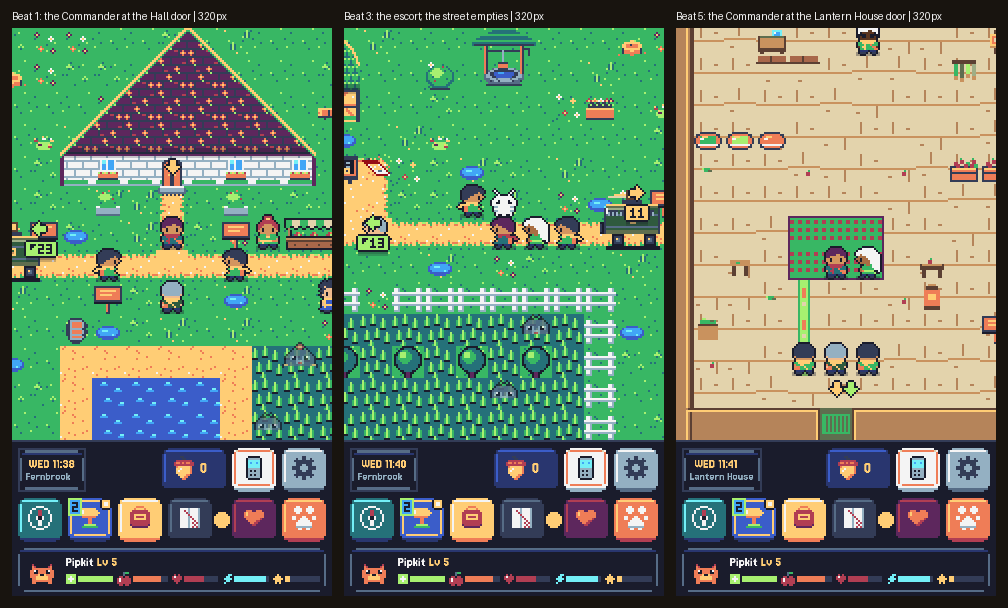
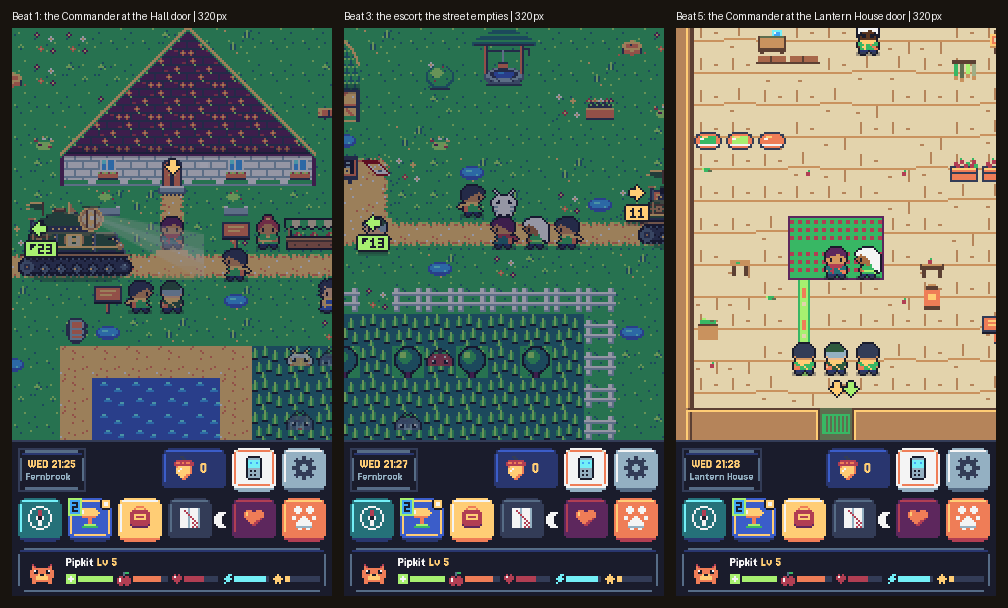
Spec: the Keeper tanks (POST_TRIAL_CRACKDOWN v0.2)
Docs only. New §10a vehicle packet: tanks with no gun (low lacquered
hull on treads, a dome turret carrying a caged searchlight lantern and
a loudhailer bell, Keeper green, iron and brass). Inspiration brief, a
64x40 part-by-part design, frames (6 parked, 4 driving, 3 hatch),
command and escort variants, a searchlight beam, dust, tests, and five
small engine changes. All prototyped by patching the served game.js;
the arrival is recorded in the engine at 390 and 320 (GIFs, zero
console errors). Storyboard and art sheet redone with the tanks.
D1197, D1202 and D1204 reworded.

Claude-Session: https://claude.ai/code/session_01T4Pbfogdr51NfJVgZNeyYN

diff --git a/handoff/specs/POST_TRIAL_CRACKDOWN.md b/handoff/specs/POST_TRIAL_CRACKDOWN.md
@@ -6,13 +6,13 @@ Target path: `handoff/specs/POST_TRIAL_CRACKDOWN.md` (PUBLIC repo; not `docs/`).
 
 | Item | Value |
 |---|---|
-| Status | Draft v0.1, Mon Nov 2, 2026, ~11:45 PM ET |
+| Status | Draft v0.2, Tue Nov 3, 2026, ~12:15 AM ET. v0.2 makes the Keeper tanks a showpiece (§10a): an inspiration brief, a detailed 64x40 design with every frame, two variants, the arrival prototyped in the engine and recorded at 390 and 320, five small engine changes, and tests. v0.1 was Mon Nov 2, ~11:45 PM ET |
 | Ask | Vincent's eight-beat outline (via Morgan), plus his clarification: the Seal-gain ban never blocks the player. The holder already has the Fernbrook Seal. The ban is world news and NPC reactions only, foreshadowing that the Keepers do bad things too |
 | Builds on | Draft PR #261 (`claude/day1-trial1-build-gtkcop`, bc38b01): the `post_trial` and `pick` rows, `sceneTails.seal1`, the `fb_side_pick` trigger, Fen's whereabouts, and the D1171 flip. Main has #249 (Rook's Lantern House walk). `#261 file:N` cites that branch |
 | Canon read | design repo `STORY.md` v0.7.8: §2 Seals and levels, §2a Solvane, §3 Keepers, §3a Government and power, §9 Trial Halls; `specs/KEEPER_RANKS.md`; FACTION_PICK_TIMING Parts C-D and June's drafts (`story/drafts/*2026-10-31.md`). None of them has a crackdown, curfew or police action in Fernbrook: this is new canon |
 | Decisions read | D1142, D1144, D1145, D1150, D1151, D1155, D1170, D1171, D1173, D1174, D1175 (and #261's D1186-D1188) |
 | Skills | walklings-story-craft, walklings-dialog-camera, walklings-dialog-npc-walk, walklings-cutscene, gamedev-level-design, walklings-decision-ids, walklings-wording-check |
-| Storyboard | `handoff/shots/post_trial_crackdown/` (§9): three beats rendered in #261's build at 390 and 320, with draft art injected at runtime (not committed) |
+| Storyboard | `handoff/shots/post_trial_crackdown/` (§9, §10a): three beats rendered in #261's build at 390 and 320; the tank arrival recorded as GIFs; a tank frame sheet. All draft art, injected at runtime (not committed) |
 | Decision ids | D1197-D1209, reserved in this PR (§13) |
 
 ## 2. The quest on one page (walklings-story-craft §1)
@@ -63,19 +63,23 @@ Canon fit (STORY §3a, CANON): "the President and every Keeper commander know po
 - #261's `sceneTails.seal1` placeholder (Fen's "come to the orchard gate" line plus `setFlag story.post_trial_done`) is **replaced**: the tail keeps only a Fen line pointing the holder outside. Story writes it.
 - Camera: the holder arrives at 22,7. Curtain bars on.
 
-### Beat 1. The Watch Coaches roll in (street, auto then talk)
+### Beat 1. The Keeper tanks roll in (street, auto then talk)
+
+This beat **ran in the engine** (§10a.6): #261's build with the §10a engine changes patched in at load, draft art, zero console errors, and every actor on its tile at the end. The tanks are §10a's.
 
 | Step | Who | Move / action | Camera |
 |---|---|---|---|
-| 1a | holder | `walkTo player 21,8`: steps down to the road | follows the holder |
-| 1b | Watch Coach A | `castAt cd_coach_a 1,8 right`, then `walkTo cd_coach_a 17,8` (a prop gliding; prototype, §11 S2) | the coach enters the right of the frame at 390; at 320 the camera stays on the holder and the coach slides in from the left edge |
-| 1c | Watch Coach B | `castAt cd_coach_b 1,8 right`, then `walkTo cd_coach_b 12,8` | |
-| 1d | Commander | `castAt cd_cmdr 17,9 right`, then `walkTo cd_cmdr 22,9`, facing up | the speaker nudge (D171) keeps him clear of the box |
-| 1e | officers | `walkAll` (new, §11): `cd_off_a` 17,7 to 20,8; `cd_off_b` 18,9 to 24,8 | |
+| 1a | | `curtain on`; `wait 300` | the holder stays at the Hall door (22,7), facing down |
+| 1b | the light first | `castAt cd_beam 4,8` (the searchlight beam, a cast prop) and `castAt cd_tank_a 3,8` (the command tank), then `walkTo cd_beam 20,8 {with: cd_tank_a, ms: 300}`: the beam leads and the tank follows one tile behind | at 320 and 390 the beam crosses the left edge first, then the tank. It stops with the pool of light on the holder |
+| 1c | | `castAt cd_dust 16,8` (dust behind the treads); `wait 500` | |
+| 1d | the escort tank | `castAt cd_tank_b 3,8`, then `walkTo cd_tank_b 13,8 {ms: 260}` | it parks off screen behind the first at 320 |
+| 1e | the hatch | `prop cd_tank_a keeper_tank_cmd_r_hatch1`, `wait 220`, `hatch2`, `wait 220`, `hatch3`, `wait 700`, then back to `keeper_tank_cmd_r` | the Commander rises out of the turret |
+| 1f | Commander, officers | `castAt cd_cmdr 20,9`, `cd_off_a 15,9`, `cd_off_b 16,7`, then `walkAll [[cd_cmdr,22,9],[cd_off_a,21,9],[cd_off_b,24,8]]` | the speaker nudge (D171) keeps him clear of the box (seen at 320) |
+| 1g | holder | after the Commander's first line, `walkTo player 21,8` (steps down to the road to face him, freeing 22,7 for Fen) | |
 
 | Speaker | Line (PLACEHOLDER) |
 |---|---|
-| (narration) | Iron wheels grind on the road. Two Watch Coaches roll into Fernbrook, lanterns blazing. |
+| (narration) | A white beam slides up the road. Then the ground starts to hum. |
 | Commander | By order of the Keepers, this square is closed. Everyone home. Now. |
 | Commander | Glimmerwell staff will pack up and leave Fernbrook tonight. |
 | Associate Juniper | We have a permit! ...Fine. Fine! Glimmerwell is relocating. |
@@ -104,7 +108,7 @@ The threat is words only. The Seal is never removed (`S.seals` and `story.seal1`
 | 3a | townsfolk and Juniper | `walkAll`: Juniper 14,6 to 30,8 (east, toward the rubble); Wynne 25,7 to 26,5; Odile 27,9 to 28,11; Juniper's stand `fb_lantern_stand` swaps to empty (`prop`) | when `story.crackdown` is set at 3e, their `when`s hide them. They are hidden, never `drop`ped: dropping a real map NPC removes it for the session |
 | 3b | Constable Rue | stays at 4,9 | one line as the holder passes |
 | 3c | escort | `walkAll`: `cd_cmdr` to 6,8; `cd_off_a` to 7,7; `cd_off_b` to 9,8; then `walkTo player 5,6 {with: cd_fen}` | the camera follows the holder west along row 8; the storyboard's Beat 3 frame is 13,8 |
-| 3d | Watch Coach A | `walkTo cd_coach_a 10,8`, trailing (optional, cut if the glide prototype fails) | |
+| 3d | the tanks | stay parked on the road, lanterns sweeping (idle frames); dropped at the warp | |
 | 3e | | `setFlag story.crackdown`; `curtain off`; `warp fb_lantern_in 5,14` | |
 
 | Speaker | Line (PLACEHOLDER) |
@@ -149,7 +153,7 @@ Fen's challenge is a line, not a battle: no forced battle in a cutscene (walklin
 | Master Fen | You'd arrest a Hall Master in her own town? Listen to yourself. |
 | Commander | A Seal says a holder can help run things here. Fernbrook doesn't need the help. |
 
-"Immediately" becomes "at first light". The coaches don't run at night, and it gives the pick its dawn (D1142, FPT Part D). Default D1203; Vincent can make it "now" (then §6 option B).
+"Immediately" becomes "at first light". The Lantern Coach doesn't run at night, and it gives the pick its dawn (D1142, FPT Part D). Default D1203; Vincent can make it "now" (then §6 option B).
 
 ### Beat 6. "The Seal only matters if you comply" (Lantern House)
 
@@ -211,7 +215,7 @@ The curfew is **a read, not a flag**: `story.crackdown & !story.side_pick_done`.
 | `fen_dawn` (new Fen body) | fernbrook 10,9 (the orchard) | `["story.post_trial_done", "!story.side_pick_done", "!story.orchard_cleared"]` | points the holder at the gate; the built pick follows |
 | `juniper_east` (new body of Juniper) | fernbrook 30,8, beside the rubble | `["story.crackdown", "!story.side_pick_done"]` | her pitch (§6) |
 | Constable Rue | 4,9 | unchanged | a curfew-keyed line |
-| Watch Coaches | | not on the map at dawn | |
+| Keeper tanks | | not on the map at dawn (their casts end with the street scene) | |
 
 The new bodies don't block the path: the road (row 8) stays open from the Lantern House to the gate (9,10) and to 30,8. They are checked the same way as the Hall spec's path model (T5).
 
@@ -296,7 +300,7 @@ Two NPC lines in other towns after the pick (PLACEHOLDER, Story): a holder in Co
 |---|---|---|
 | Fen defies Keeper police but must stay a Keeper (D1170) | STORY §3a: Wardens outrank Commanders and aren't in the cover-up | Fen appeals **up** the ladder ("I'm writing to the Warden"), never against the Keepers as a whole. Her line: "A Commander doesn't outrank the lantern's law." |
 | The Keepers look heavy-handed right before the pick (balance) | the pick needs two fair options | Ledger below. Default: Amos owns it, the officers are uneasy, Rue is kind, Fen defies from inside. Glimmerwell runs and leaves locals, and Juniper spins it. Telemetry later: the pick ratio before and after (no new code; QA notes it) |
-| "Tanks" in a cozy pet game | STORY transport: Lantern Coach, lantern airships, Glimmerwell carts. No guns anywhere in canon | **Watch Coaches** (D1202): armoured Keeper coaches in green lacquer and iron, with a lantern searchlight turret. No barrel, no gun. Optional sky beat: a patrol skiff from Sky-Dock Command (not in this spec's art) |
+| "Tanks" in a cozy pet game | STORY transport: Lantern Coach, lantern airships, Glimmerwell carts. No guns anywhere in canon | **They are tanks, with no gun** (D1202; §10a): a low hull on treads with a dominant turret, but the turret carries a great caged searchlight lantern and a loudhailer bell. It threatens by watching and ordering. Green lacquer, iron and brass: unmistakably Keeper, never Glimmerwell's gloss and red |
 | Curfew and ban vs town steering (D1173, red, open) | steering is "which side a Trial steered a town toward" | The curfew is scene-scoped (crackdown to pick) and the ban is world news; neither writes town state. D1173 stays untouched. If Vincent picks Seal option A (D1199), Seals become the steering key, and this beat is the first sign of it |
 | Tone and age | STORY.md:137-144 says the audience is 16-28 with "no blood on screen, ever"; walklings-story-craft says all-ages ("no peril without hope") | Pitched for both: no weapon drawn, no one taken away on screen, no Walkling harmed. "Arrested" and "detained" appear as words only. Hope arrives in the same scene (Fen's appeal, Amos's beds). The audience conflict is flagged to Morgan (§12, row 11) |
 | The Commander is in on the cover-up (canon) | STORY §3a | The line never says it. He just doesn't value Seals: a seed only |
@@ -317,9 +321,10 @@ Two NPC lines in other towns after the pick (PLACEHOLDER, Story): a holder in Co
 ## 9. Storyboard (code-drawn, 390 and 320)
 
 In `handoff/shots/post_trial_crackdown/`:
-- `storyboard-390.png`, `storyboard-320.png`: Beat 1 (the Commander at the Hall door, the coaches on the road), Beat 3 (the escort; the street empties; Juniper at the east end), Beat 5 (the Commander and officers across the Lantern House door).
+- `storyboard-390.png`, `storyboard-320.png`: Beat 1 (the Commander at the Hall door, the tanks on the road), Beat 3 (the escort; the street empties; Juniper at the east end), Beat 5 (the Commander and officers across the Lantern House door).
 - Full screens: `beat{1,3,5}-*-{390,320}.png`.
-- `draft_art_sheet.png`: the Watch Coach, the wire set off and on, the curfew notice and the lantern cordon at 5x.
+- `draft_art_sheet.png`: both tanks, the wire set off and on, the curfew notice and the lantern cordon at 4x.
+- **The tanks** (§10a): `tank_sheet.png` (every frame at 4x), `tanks-arrival-390.gif` and `tanks-arrival-320.gif` (the arrival, recorded in the engine), and `tanks-storyboard-{390,320}.png` (four stills: the light, parked, the hatch, the Commander's line).
 
 How they were made:
 - #261's build, with the cast and props added to `MAPDATA` at load, plus draft art and a draft Commander look.
@@ -328,7 +333,7 @@ How they were made:
 Findings from the storyboard (already folded in above):
 1. **The Commander needs a silhouette.** With the officer look plus grey hair he reads as one more officer. A long coat and a peaked cap are needed (§10).
 2. **The wire set was off screen at 320** from the rug, so in Beat 7 the holder walks up to it.
-3. **The Watch Coach at 32x32** reads as a heavy coach, not a cart. A wider vehicle would read better, but the draw code is only known to handle 32 px wide (cull margin, #261 `game.js:8219`; UNVERIFIED wider). Default 32x32; a two-cell coach (front and back props) is an option.
+3. **The vehicle.** v0.1's 32x32 coach read as a cart. The tank is now 64x40 (§10a). The engine draws it, but its fixed cull margin made wide art pop at the screen edges, so §10a.5 adds a width-aware cull, verified in the arrival recording.
 
 ## 10. Art (Pia) and story (June)
 
@@ -336,7 +341,7 @@ Findings from the storyboard (already folded in above):
 
 | Asset | New / existing | Size | Draft (storyboard) | Notes |
 |---|---|---|---|---|
-| `watch_coach` | **new** | 32x32 prop (`drawArt`, bottom-centred) | green lacquer `J` body with `E` shade; `m`/`d` iron bands; barred `h` windows; a painted gold crest; brass lantern turret (`y`, `F` cage) with a `C`/`y` beam; iron wheels with brass hubs; a front plough plate | needs a facing-right copy (or a flip) and, optionally, 2 wheel frames. No gun shapes |
+| Keeper tanks (`keeper_tank*`, `tank_beam_*`, `tank_dust`) | **new** | 64x40, plus a 96x40 beam | see §10a | the showpiece of the quest |
 | Commander look | **new** (look entry) | keeper look | coat `J`, accent `y`, hair `h` (draft) | needs a silhouette: long coat, peaked cap (the look kit has `cap`; a peaked one may be new), gold shoulder. Inside the Keeper set (rule 11) |
 | Officer look | existing `officer` | | | optional: a cap, to read as on duty |
 | `wire_set`, `wire_set_on` | **new** | 16x16 | an oak cabinet with a brass grille; teal screen `t`/`s`, `w` text lines when on | a Keeper object: the wires are Keeper-owned (STORY §3) |
@@ -353,18 +358,139 @@ June (Story):
 - three Block News stories and two NPC reactions;
 - sign-off on the balance ledger.
 
+## 10a. The Keeper tanks (vehicle packet)
+
+Vincent wants a lot of attention and detail on the tanks. They are the image of this quest: the first time the Keepers' law arrives as a machine. This section is the packet for them: inspiration, design, every frame, choreography, engine needs, tests. Draft art and an engine prototype back every claim. Nothing here ships until Pia redraws it and Vincent says yes.
+
+### 10a.1 Inspiration (run with a sub-agent, Mon Nov 2, 2026; reference only)
+
+- **Pillars**
+  - **Silhouette:** low, wide, heavy. A long tread loop, a flat riveted hull and a squat dome turret set back, wider than a house door.
+  - **Materials:** the Keeper craft made institutional. Dark green lacquer held down by iron straps, gold rivet rows, oak trim and brass lamp rings. Matte and hand-painted, never glossy.
+  - **No gun, still a threat:** it threatens by **watching and ordering**. A caged eye that can light anyone, a bell that announces rules, a mass that blocks a street, and a slow, unstoppable approach.
+  - **Stays Keeper:** warm palette, a hand-painted crest, lantern culture (kin to High Charity's airships), pennants. Glimmerwell's black-and-red gloss and hard wedges are kept out.
+- **References (situations, not designs):**
+  - a steam traction engine (brass bands, a short rear stack, slow ceremonial weight);
+  - a riveted early armoured car (plate seams, slit visors, a domed turret);
+  - a lighthouse lamp (stepped glass rings in a brass cage);
+  - a lacquered steam fire pump (gold-leaf lining; a civic, proud vehicle);
+  - a river monitor (low hull, round turret);
+  - a barred prison van ("the law owns this");
+  - a searchlight on a yoke;
+  - a ceremonial coach (a crest on the door panel).
+- **Pitfalls named, and what the design does:**
+  - **Too toy-like.** It stays low, wide and dark, with small wheels.
+  - **Reads as a train, bus or tractor.** No window row; a short rear stack; a full tread loop with sprocket teeth; the turret dominates the top line.
+  - **The lamp reads as a cannon.** The lantern is a drum wider than it is deep, shown as a glowing ringed disc with cage bars across it; the loudhailer is a flared bell angled up.
+
+### 10a.2 The design (draft v2; `tank_sheet.png`)
+
+**Size:** 64x40 px, bottom-centred on one cell (`drawArt`). On the map it spans about 4 tiles wide and 2.5 tall: bigger than any NPC and as wide as the Lantern House door is far from its well. Side view; drawn facing left and mirrored for right.
+
+| Part | Pixels (draft) | Notes for Pia |
+|---|---|---|
+| Ground shadow | the engine's own shadow colour, a 54 px tapering ellipse | |
+| Tread loop | `k` loop with `d` belt; links alternate `m`/`k` every 3 px on the top and bottom runs; the top run sags 1 px between wheels | the links scroll 1 px a frame when driving |
+| Running gear | front idler (plain iron, `d`/`m`), rear drive sprocket (`m`, 8 tooth notches), five road wheels (`k` rim, `m` face, `y` brass hub bolt) | hub bolts rotate when driving |
+| Oak fender | `G` rail with an `A` lit front run and an `F` edge, casting a `k` shadow onto the top run | separates the hull from the treads |
+| Hull | low trapezoid, front sloped 5 px, rear 3 px; deep green lacquer `J`; iron glacis `d` with a lit `m` edge and gold `y` rivets every 3 rows | dark: green close to black |
+| Panels | three lacquer panels split by two iron straps (`d`/`m`) with `y` rivets every 3 px; `E` bevel on top, `d` shade below; the deck edge lit `D` at the front-left | one light, top-left |
+| Front | vision slit (`k`, with 1 px `y`: someone inside); a front running lantern (`A` ring, `w`/`y`) | for the night arrival |
+| Trim line | command: gold `y` along the hull; escort: iron `m` | |
+| Side plate | command: crest (gold rim, cream field, painted lantern, `A` laurel band); escort: cream order plate with 3 ticks, plus mud dither `F` on the lower hull | |
+| Oak rack | three staves (`F`/`G`), brass end posts, a rope coil | |
+| Rear stack | `d`/`m`, with an `A`/`y` brass cap ring | steam rises from here |
+| Turret | a broad squat dome set back (25 px wide), `J` with `E`/`D` lit top-left and `k` shade right, a rivet ring on an iron base | dominates the top line |
+| Hatch | `F`/`G` lid with a `y` hinge; open: lid upright with the crest painted on its underside | the Commander rises from here |
+| **Great lantern** | on the turret front, on an iron yoke: `A` brass ring (command: a second `y` ring), `C` pale ring, `y` glow, a 2x2 `w` hot core, two `F` cage bars across the face, a `J` hood | **the read at 1x:** "a glowing ringed disc on a dark tank lump". Off: a `G`/`C` lens |
+| Loudhailer | a flared bell angled up beside the lantern (command: brass `A`/`y`; escort: iron `m`/`h`) | a bell, never a tube |
+| Pennant | an oak pole at the turret's rear; command: a long double-tailed `J` pennant with `y` border and tails; escort: a short `J` flag | |
+| Searchlight beam | a separate 96x40 sprite: a cone from the lens forward and down, cream `rgba(244,236,214,.32)` with a brighter core, and a warm pool where it lands | the only translucent art; cast one tile ahead of the tank so its narrow end meets the lens |
+| Dust | 3 frames of dithered `A` puffs at 55% alpha | behind the treads when a tank stops |
+
+**PAL keys used:** `J E D k d m h w y A G F C` and the engine's shadow rgba. **No `V`, `N` or `Q`:** nothing Glimmerwell.
+
+### 10a.3 Frames
+
+| Sprite key | Frames | Timing | What moves |
+|---|---|---|---|
+| `keeper_tank_cmd_{l,r}`, `keeper_tank_{l,r}` (parked) | 6 | 350 ms | the lantern yaws left, centre, right (held 700 ms each); the pennant flutters every frame; one steam puff on the last frame |
+| `..._move` (driving) | 4 | 150 ms | links scroll, hub bolts turn, the sprocket teeth step, the hull bobs 1 px on frame 3 and the turret lags a frame behind it, steam puffs grow and drift up and back |
+| `keeper_tank_cmd_{l,r}_hatch1..3` | 3 stills | swapped by `prop` steps, 220 ms apart | the lid flips up; cap and face appear; shoulders and a hand on the rim |
+| `keeper_tank_cmd_off_r`, `keeper_tank_off_r` | 1 | | lantern dark, for the dawn |
+| `tank_beam_{l,r}` | 1 | | static. A sweep is optional (3 positions) |
+| `tank_dust` | 3 | 160 ms | |
+
+**Reduced motion** (`artFrame`): every animated sprite holds frame 0. The tanks still arrive (SKIP and reduced motion snap walks, so they appear parked). No flashing in any mode.
+
+### 10a.4 The two tanks
+
+| | Command tank (`cd_tank_a`) | Escort tank (`cd_tank_b`) |
+|---|---|---|
+| Who rides it | the Commander (emerges from the hatch) | officers |
+| Side plate | crest with laurel band | order plate, mud |
+| Trim | gold line | iron line |
+| Lantern | bigger (second gold ring) | standard |
+| Loudhailer | brass | iron |
+| Pennant | long, double-tailed, gold | short |
+
+One base sprite; the variant is a palette swap plus a few overlay pixels.
+
+### 10a.5 Engine needs (all prototyped in the arrival recording)
+
+Each change below was patched into #261's `game.js` **only as it was served to the test browser** (the repo is untouched). The recorded arrival ran with them and zero console errors.
+
+| # | Change | Where (#261) | Size |
+|---|---|---|---|
+| E1 | `castAt` can cast a **prop**: a `CAST_AT_LOOK` (or `SCENE_CAST`) entry with `sprite` pushes `{kind: 'prop', sprite}` instead of an NPC | `cutCastAt`, `game.js:9263` | 1 line |
+| E2 | `walkTo` takes a per-tile **`ms`** for non-holder walkers (tanks roll at 260-300 ms a tile, not 120) | `cutWalkTo`, `game.js:9306` | 1 line |
+| E3 | Props show their **`_move` frames while moving** (`mapRT.pos[id].moving`) | `drawObj` prop branch, `game.js:8238` | 1 line |
+| E4 | **Width-aware cull**: the margin is `(artWidth - 16) / 2 + 10`, so 64- and 96-wide art doesn't pop at the screen edges (it does today: the margin is a fixed 26 px left and 10 px right) | `drawObj`, `game.js:8219` | 2 lines |
+| E5 | **`walkAll`** step: parallel walks, each a `cutWalkTo` | `execStep`, beside `walkTo` (`game.js:9601`) | 1 line |
+| E6 | **Footprint** (not prototyped): a prop field `footprint: [w, h]` so a parked tank blocks the 3-4 cells it covers, not just its anchor cell. Only matters if a tank stays parked where people walk; in this spec they are cast for the scene only | `blockerAt`, `game.js:4795` | small |
+
+E1-E5 are D1204 (yellow). Glide, `with` and `drop` already work on props: `glideCast` writes `mapRT.pos` for any object.
+
+### 10a.6 The arrival as it ran (Beat 1)
+
+Recorded in #261's build at 390 and 320 (`tanks-arrival-390.gif`, `tanks-arrival-320.gif`; ~13 s; the real clock put it in late evening, which suits it):
+
+1. **The light comes first.** The beam crosses the left edge and slides up the road a tile every 300 ms; the command tank follows one tile behind it (`with`). It stops with the pool of light on the holder at the Hall door.
+2. **Dust** puffs behind the treads; the escort tank rolls up and parks behind (off screen at 320).
+3. **The hatch** opens in three steps and the Commander rises with a hand on the rim.
+4. **The Commander and two officers** step out together (`walkAll`) and fan out around the holder. The first line plays with the box clear of the speaker.
+
+All seven cast actors ended on their target tiles: `cd_beam` 20,8, `cd_tank_a` 19,8, `cd_dust` 16,8, `cd_tank_b` 13,8, `cd_cmdr` 22,9, `cd_off_a` 21,9, `cd_off_b` 24,8.
+
+Further ideas from the brief, not yet in the default (Story and Design pick):
+- the beam sweeps three positions and each NPC it hits flinches and steps back;
+- house windows go dark one by one after the curfew line;
+- a "the ground hums" text cue in place of sound. Sound is red: iPhone audio.
+
+### 10a.7 Tests for the tanks (add to `tests/post_trial_crackdown.spec.js`)
+
+| # | Check |
+|---|---|
+| V1 | Every tank sprite key exists in `WART`, with frame counts and `ms` as in §10a.3 |
+| V2 | While a tank's `mapRT.pos` is `moving`, `drawObj` picks the `_move` key; parked, the idle key |
+| V3 | Width-aware cull: with the camera placed so a tank's anchor cell is 1-2 tiles off screen, its visible half still draws (pixel read on the canvas edge) |
+| V4 | After Beat 1, actor tiles match §10a.6. SKIP and reduced motion land every tank in one frame; no fractional positions |
+| V5 | Reduced motion: the tank frame stays 0 over 2 s |
+| V6 | No tank cast remains after the street scene ends (`clearCast`) |
+| V7 | Q and red keys: no `V`/`N`/`Q` pixels in any tank sprite (the art scan) |
+
 ## 11. Slices and rough effort
 
 | Slice | Who | Content | Effort |
 |---|---|---|---|
 | S0 | Vincent | rule on the red rows (D1197-D1203) and look at the storyboard | |
 | S1 | June | lines, voice cards, names; the balance pass | 1-2 days |
-| S2 | engineer | **engine, small:** (a) a `walkAll` step (parallel walks; wraps the existing internal `walkCast`, #261 `game.js:9224`); (b) prototype a prop glide with `walkTo` (vehicles; UNVERIFIED today); (c) keyed `deny` entry for the Hall; (d) `whereNow` curfew rows | 1 day |
-| S3 | Pia | the art in §10 | 2 days |
+| S2 | engineer | **engine, small (E1-E5, each a line or two, all prototyped):** prop casts, per-tile `ms`, `_move` frames, width-aware cull, `walkAll` (§10a.5). Plus the keyed `deny` entry for the Hall and the `whereNow` curfew rows | 1 day |
+| S3 | Pia | **the tanks** (§10a: 2 variants x 2 facings; 6 idle + 4 drive + 3 hatch frames; beam; dust), plus the rest of §10 | 4-5 days (the tanks are about 3 of them) |
 | S4 | engineer | **data build:** `data/detail_zz_crackdown.json` (scenes, objects, `when`s, triggers, the `sceneTails.seal1` change); chain rows; `reputation.json` cast entries; `news.json` stories; `python3 tools/gen_mapdata.py`. Previews from a patched copy of main at 320, 375 and 390 before the PR | 2 days |
 | S5 | engineer and QA | tests (§11.1); walklings-qa-run on saves n, fresh, "Mahopac done", a2/b' (skip), c (never) | 1 day |
 
-About 7-9 working days in all. It can ship after #261 merges. It doesn't depend on the Trial Hall redesign, though both read the same hold.
+About 9-11 working days in all, with the tanks as the largest art item. It can ship after #261 merges. It doesn't depend on the Trial Hall redesign, though both read the same hold.
 
 ### 11.1 Acceptance tests (`tests/post_trial_crackdown.spec.js`)
 
@@ -410,14 +536,14 @@ Checked with walklings-decision-ids on Mon Nov 2, 2026, ~11:45 PM ET:
 
 | Id | Colour | Call | Default |
 |---|---|---|---|
-| D1197 | **red** (canon, staging) | The crackdown happens, as §4: after Trial 1 a Keeper Commander with Watch Coaches and officers closes Fernbrook, stops its Trials, sends Glimmerwell away, threatens the holder's Seal and orders the holder and Fen out. Fen defies him and appeals to the Warden. Fills D1175 | As §4 |
+| D1197 | **red** (canon, staging) | The crackdown happens, as §4: after Trial 1 a Keeper Commander arrives with two Keeper tanks (§10a) and officers, closes Fernbrook, stops its Trials, sends Glimmerwell away, threatens the holder's Seal (words only) and orders the holder and Fen out. Fen defies him and appeals to the Warden. Fills D1175 | As §4 |
 | D1198 | **red** (canon, naming) | Who the Commander is: canon rank Commander (above the town's Captain; STORY §3a, in on the cover-up, never said). Name, look and whether he comes back | Rank "Commander", name PLACEHOLDER (Story), returns in Act 2 or 5 (Story) |
 | D1199 | **red** (canon) | **What a Seal unlocks.** **A. The town's voice:** a Seal is a key to the town's matters: a seat and a say at its town meeting (the `fb_sign_meeting` sign at fernbrook 20,9 already exists), and later the lever of town steering (D1173). That's why a Commander who wants towns quiet hates Seals. **B. Solvane's lock:** the Halls were set up with the first Keepers (STORY §2a: Solvane set up the Keepers), and each Seal is one piece of an old key; enough Seals open the way to the Stormbell Spire in Act 5. **C. The Masters' archive:** each Seal opens the Hall's record room behind the dais, where Masters keep town records and copies of lamp cases (the cases Commanders empty, STORY §3a), the paper trail for the President choice | **A** (lowest canon cost, matches Vincent's beat 5, explains the ban). A and B can stack later. No mechanic until D1173 |
 | D1200 | **red** (curfew) | The curfew: scene-scoped from the end of the street scene to the pick result; residents indoors, visitors out by first light; a read, not a flag; lifts at the pick | As §5 |
 | D1201 | **red** (ban) | The Seal-gain ban is world news and NPC reaction only (Vincent's clarification). It never blocks the player, never removes a Seal, never changes a cap or gate | As §7.4 |
-| D1202 | **red** (naming, tone) | No "tanks": **Watch Coaches**, armoured Keeper coaches with a lantern searchlight, no guns. Alternatives: "Lantern Wagons", or a patrol skiff from Sky-Dock Command landing in the square | Watch Coach |
+| D1202 | **red** (naming, tone) | **The vehicles are tanks with no gun** (§10a): low hull, treads, dominant turret, but the turret carries a caged searchlight lantern and a loudhailer bell. What the game calls them: "tank" in narration and lines (Vincent's word), or a Keeper name ("Watch Tank", "Lantern Tank") | Shape as §10a. Name: "Keeper tank" in narration, PLACEHOLDER until Vincent picks |
 | D1203 | **red** (amends D1142, FPT) | Hand-off: "leave at first light" (not "now"). The pick stays at `fb_side_pick` at dawn as built; FPT Part D's morning cart is replaced by the crackdown night; Amos's pitch moves into the Lantern House and Juniper's to the east road | Option A (§6) |
-| D1204 | yellow (step kinds) | New `walkAll` step (parallel walks), and vehicles gliding as props via `walkTo` (prototype) | Add both; if the glide fails, the coaches appear behind a fade |
+| D1204 | yellow (step kinds, engine) | E1-E5 of §10a.5: prop casts, per-tile `ms`, `_move` frames, width-aware cull, `walkAll`. All prototyped (the arrival recording). E6 footprint only if a tank stays parked where people walk | Add E1-E5 |
 | D1205 | yellow | The wire set: a Keeper "wire set" prop in each Lantern House that plays Block News as `say` lines, plus three Block News stories in the NEWS app (data only) | Yes; only Fernbrook's for now |
 | D1206 | yellow | The Trial Hall during and after the curfew: closed by `deny` during it, open as a place after the pick (TRIAL_HALL_FERNBROOK_MAP §7 stays visible) | Yes |
 | D1207 | yellow | Fernbrook NPCs and the plaza cast hidden during the curfew read; officers posted at 6,6 and 21,7; notice and cordon | As §5 |

diff --git a/OPEN_DECISIONS.md b/OPEN_DECISIONS.md
@@ -148,14 +148,14 @@ Vincent's direction for the start of the game (Mon Nov 2, 2026, 3:55 PM ET, via 
 | D1194 | green, TRIAL_HALL_FERNBROOK_MAP §7.2 | Floor and ledges stay split after the pick; only props flip (no hold-based skin swap) | Not built. Default: yes | none |
 | D1195 | yellow, TRIAL_HALL_FERNBROOK_MAP §6 | Glimmerwell's Hall floor is a light polished grey with a soot/wine grid, not a soot field; red is accent only | Not built. Default: yes (contrast at 320) | `sprites.js` |
 | D1196 | green, TRIAL_HALL_FERNBROOK_MAP §7.3 | New Hall prop lines are PLACEHOLDER for Story; none asks the holder to join a side (D1145) | Not built. Default: ship the drafts until Story's pass | `data/fernbrook_rooms.json` |
-| D1197 | red, POST_TRIAL_CRACKDOWN §13 | The crackdown after Trial 1: a Keeper Commander with Watch Coaches and officers closes Fernbrook, stops its Trials, sends Glimmerwell away, threatens the holder's Seal (words only) and orders the holder and Fen out; Fen defies him and appeals to the Warden. Fills D1175 | Not built. Spec and storyboard in `handoff/shots/post_trial_crackdown/` | `data/detail_zz_crackdown.json` (new) |
+| D1197 | red, POST_TRIAL_CRACKDOWN §13 | The crackdown after Trial 1: a Keeper Commander with two Keeper tanks (no guns) and officers closes Fernbrook, stops its Trials, sends Glimmerwell away, threatens the holder's Seal (words only) and orders the holder and Fen out; Fen defies him and appeals to the Warden. Fills D1175 | Not built. Spec and storyboard in `handoff/shots/post_trial_crackdown/` | `data/detail_zz_crackdown.json` (new) |
 | D1198 | red, POST_TRIAL_CRACKDOWN §13 | The Commander: canon rank (STORY §3a), name PLACEHOLDER, look, whether he returns | Not built. Default: rank Commander, name by Story | Story |
 | D1199 | red, POST_TRIAL_CRACKDOWN §13 | What a Seal unlocks: A the town's voice (a say at the town meeting; later town steering, D1173), B Solvane's lock (the way to the Stormbell Spire), C the Masters' archive (record rooms, the lamp-case paper trail) | Nothing built. Default A; no mechanic until D1173 | STORY.md |
 | D1200 | red, POST_TRIAL_CRACKDOWN §5 | Fernbrook curfew: scene-scoped from the crackdown to the pick result; residents indoors, visitors out by first light; a read (`story.crackdown & !story.side_pick_done`), not a flag | Not built | `when`s in the new overlay |
 | D1201 | red, POST_TRIAL_CRACKDOWN §7.4 | The Seal-gain ban is world news and NPC reaction only; it never blocks the player or removes a Seal (Vincent's clarification) | Not built | `data/news.json` |
-| D1202 | red, POST_TRIAL_CRACKDOWN §8 | No tanks: Watch Coaches (armoured Keeper coaches, lantern searchlight, no guns) | Not built. Default: Watch Coach | `sprites.js` |
+| D1202 | red, POST_TRIAL_CRACKDOWN §10a | The vehicles are tanks with no gun: low hull, treads, a dominant turret carrying a caged searchlight lantern and a loudhailer bell; Keeper green, iron and brass. Name in player text: "tank" or a Keeper name | Not built. Default: shape as §10a; "Keeper tank" in narration until Vincent picks | `sprites.js` |
 | D1203 | red, POST_TRIAL_CRACKDOWN §6 | Leave at first light, not now; the pick stays at `fb_side_pick` at dawn as built; FPT Part D's morning cart is replaced by the crackdown night; Amos's pitch moves into the Lantern House, Juniper's to the east road. Amends D1142's waits | Not built. Default option A | quests.js, the new overlay |
-| D1204 | yellow, POST_TRIAL_CRACKDOWN §11 | New `walkAll` step (parallel walks); vehicles glide as props via `walkTo` (prototype) | Not built. Default: add both | `game.js` |
+| D1204 | yellow, POST_TRIAL_CRACKDOWN §10a.5 | Engine E1-E5: prop casts, per-tile `ms`, `_move` frames for moving props, width-aware cull, `walkAll` step (all prototyped); E6 footprint only if needed | Not built. Default: add E1-E5 | `game.js` |
 | D1205 | yellow, POST_TRIAL_CRACKDOWN §13 | A Keeper wire set prop plays Block News as `say` lines; three Block News stories in NEWS | Not built. Default yes, Fernbrook only | the new overlay, `data/news.json` |
 | D1206 | yellow, POST_TRIAL_CRACKDOWN §12 | The Trial Hall is closed by `deny` during the curfew only; open as a place after the pick | Not built. Default yes | `data/fernbrook_rooms.json` |
 | D1207 | yellow, POST_TRIAL_CRACKDOWN §5 | Fernbrook NPCs and the plaza cast hidden during the curfew; officers posted at 6,6 and 21,7; notice and cordon | Not built. Default yes | the new overlay |

diff --git a/CHANGELOG.md b/CHANGELOG.md
@@ -2,6 +2,15 @@
 
 Newest first. The build stamp is `version.json` and the `?v=` on each script in `index.html`. Status of open work is `BACKLOG.md`. The queue is `NEXT_PLAN.md` §3. Agent skills are in `.cursor/skills/README.md`.
 
+## 2026-11-03 00:15 ET: Spec: the Keeper tanks (POST_TRIAL_CRACKDOWN v0.2, docs only)
+
+- What changed and why: Vincent wants a lot of attention and detail on the tanks. New §10a in `handoff/specs/POST_TRIAL_CRACKDOWN.md`. The vehicles are now tanks with no gun: a low lacquered hull on treads, and a dominant dome turret carrying a caged searchlight lantern and a loudhailer bell, in Keeper green, iron and brass. §10a has an inspiration brief, a 64x40 design with every part listed, frames (6 parked, 4 driving, 3 hatch), command and escort variants, a 96x40 searchlight beam, dust, tests, and five small engine changes (prop casts, per-tile walk speed, moving frames, width-aware cull, `walkAll`). All of it was prototyped by patching the served `game.js` only, and the arrival was recorded in the engine at 390 and 320.
+- Files touched: `handoff/specs/POST_TRIAL_CRACKDOWN.md` (v0.2), `handoff/shots/post_trial_crackdown/` (tank sheet, arrival GIFs, tank storyboard; storyboard and art sheet redone with the tanks), `OPEN_DECISIONS.md` (D1197, D1202, D1204 reworded), `CHANGELOG.md`.
+- Commit(s) + build id: `claude/fernbrook-trial-hall-spec-acsv52`; docs only, no build stamp.
+- Tests run and result (widths, checks): the arrival ran in #261's build at 390 and 320 with zero console errors and all seven cast actors on their target tiles; storyboard frames clean; `node tools/scans/decisions.js` and the wording scan pass.
+- Decisions made (colour + reasoning): D1202 (red) now defaults to the tank shape, and its name waits on Vincent; D1204 (yellow) now lists engine changes E1-E5.
+- Anything left unfinished: Vincent's look at the tanks; Pia's redraw (about 3 days for the tanks); the build after #261 merges.
+
 ## 2026-11-02 23:50 ET: Spec: the Keeper crackdown after Trial 1 (POST_TRIAL_CRACKDOWN v0.1), and the Trial Hall's tone pass (TRIAL_HALL_FERNBROOK_MAP v0.2), docs only
 
 - What changed and why: (1) Vincent's eight-beat outline for the quest in the D1175 slot. New spec `handoff/specs/POST_TRIAL_CRACKDOWN.md`: a Keeper Commander with Watch Coaches (not tanks) and officers closes Fernbrook after Trial 1. Fen defies him and appeals to the Warden. A Lantern House wire set carries Block News (curfew, a proposed Seal-gain ban that is world news only). The holder leaves at first light; the pick stays at the orchard gate at dawn. It covers the script with walks, camera, props and art; the hand-off to the pick and the pitches; canon and tone checks with a balance ledger; markers and save safety (a curfew read, one new flag); slices; and three options for what a Seal unlocks. (2) Vincent: the Hall's two sides "look a little rubbery". The Hall spec goes to v0.2: a tone bible (living Keeper vs sterile Glimmerwell), draft art redrawn with materials and light, and Keeper wall dressing (honour board, oil sconces). Spec only: nothing builds before Vincent rules on the red rows and sees the previews.
